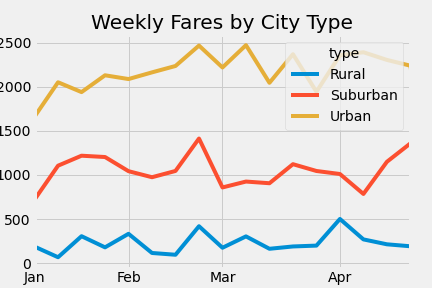
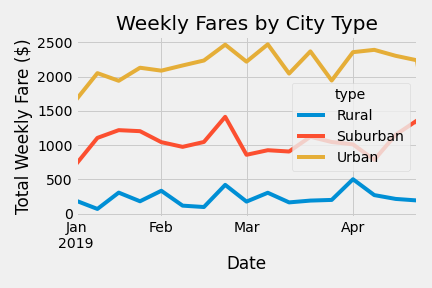
Updated Plot and read me file

Changed region(s): [[0.0, 0.0312, 0.963, 1.0], [0.9329, 0.125, 0.963, 0.1562]]

diff --git a/README.md b/README.md
@@ -1,22 +1,21 @@
 # PyBer_Analysis
 ## Overview of the analysis:
-V. Isualize requires more analysis on Pyber data.  The analysis requires a new Data Frame for ride sharing data, group by city type (Urban, Suburban, Rural), total fare for the first 4 months of the 2019. Lastly, we want to examine how the total fare changes throught time for each city type using a line plot (Total Fare vs. Weeks).  
+V. Isualize requires more analysis on the Pyber data.  The analysis requires a new Data Frame that includes the city type (Urban, Suburban, Rural), and total weekly fares for the first 4 months of 2019. Lastly, we want to examine how the total fare changes throught time for each city type using a line plot.  
 
 ## Results
-They are 4 main trends we noticed in the weekly fare plot shown below. 
-1. The first general trend shows the weekly fares are the highest in the urban city type, followed by the suburban and then rural through the 4-month period.
+They are 4 main trends we noticed in the weekly fare plot shown below.   
+  
+  [Weekly Fares by City Type](https://github.com/rick2stack/PyBer_Analysis/blob/main/Analysis/weekly_Fares.png).  
+    
 
-2. The second trend is that early Janurary has the lowest fares for all city types. A minor deatil to notice is that the rural city types experience their lowest fares in january once urban and suburban city types start recover from their January low fares. 
+1. The first noticiable trend was that the highest weekly fare were in the urban city type, followed by the suburban, and then rural through the 4-month period.
+
+2. Secondly, early Janurary has the lowest fares for all city types. A minor deatil to notice is that the rural city types experience their lowest fares in January once urban and suburban city types start recover from their January low fares. 
 
 3. Thirdly, all three city types experice an uptrend which lead to peaks after mid February. This could be explained by the surge of valentine's date activity. 
 
 4. Lastly, the urban and rural weekly fares seem to be slowing down while the suburban city type shows an up trend for the month of May.  
 
 ## Summary 
-Based on the pybear data analysis, it looks like holidays can create uptrends for each city type.  A further analysis can be done to see which holidays respond to each city type the best.  The most impactful trends will be urban and suburban city types since they show the highest weekly fares. Another suggesting is to have less drivers during the low fare seasons to minimize driver costs. 
-
-There is a description of the differences in ride-sharing data among the different city types. Ride-sharing data include the total rides, total drivers, total fares, average fare per ride and driver, and total fare by city type. (7 pt)
-Summary:
-
-There is a statement summarizing three business recommendations to the CEO for addressing any disparities among the city types. (4 pt)
+Based on the pybear data analysis, it looks like holidays can create uptrends for each city type.  A further analysis can be done to see which holidays respond to each city type the best.  The most impactful trends will be in the urban and suburban city types since they show the highest weekly fares. Another suggestion is to find dates with the lowest fares, we can maximize profit be reducing the amount of drivers during these dates. 
 
